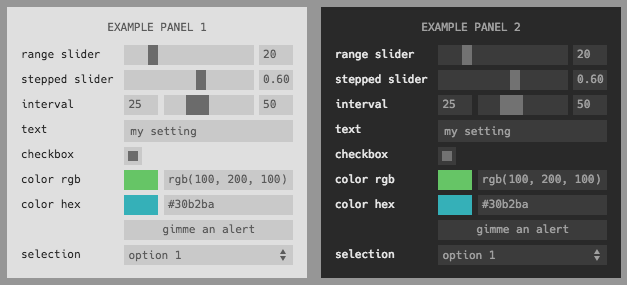
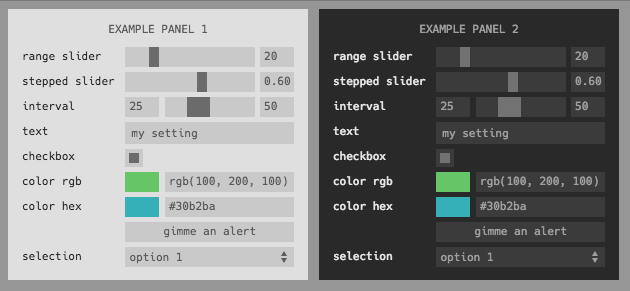
update screenshot

diff --git a/demo/index.js b/demo/index.js
@@ -3,7 +3,7 @@ var css = require('dom-css')
 
 document.body.style.background = 'rgb(150,150,150)'
 var div1 = document.body.appendChild(document.createElement('div'))
-css(div1, {marginRight: '14px', display: 'inline-block'})
+css(div1, {marginRight: '11px', display: 'inline-block'})
 var div2 = document.body.appendChild(document.createElement('div'))
 css(div2, {display: 'inline-block'})
 
